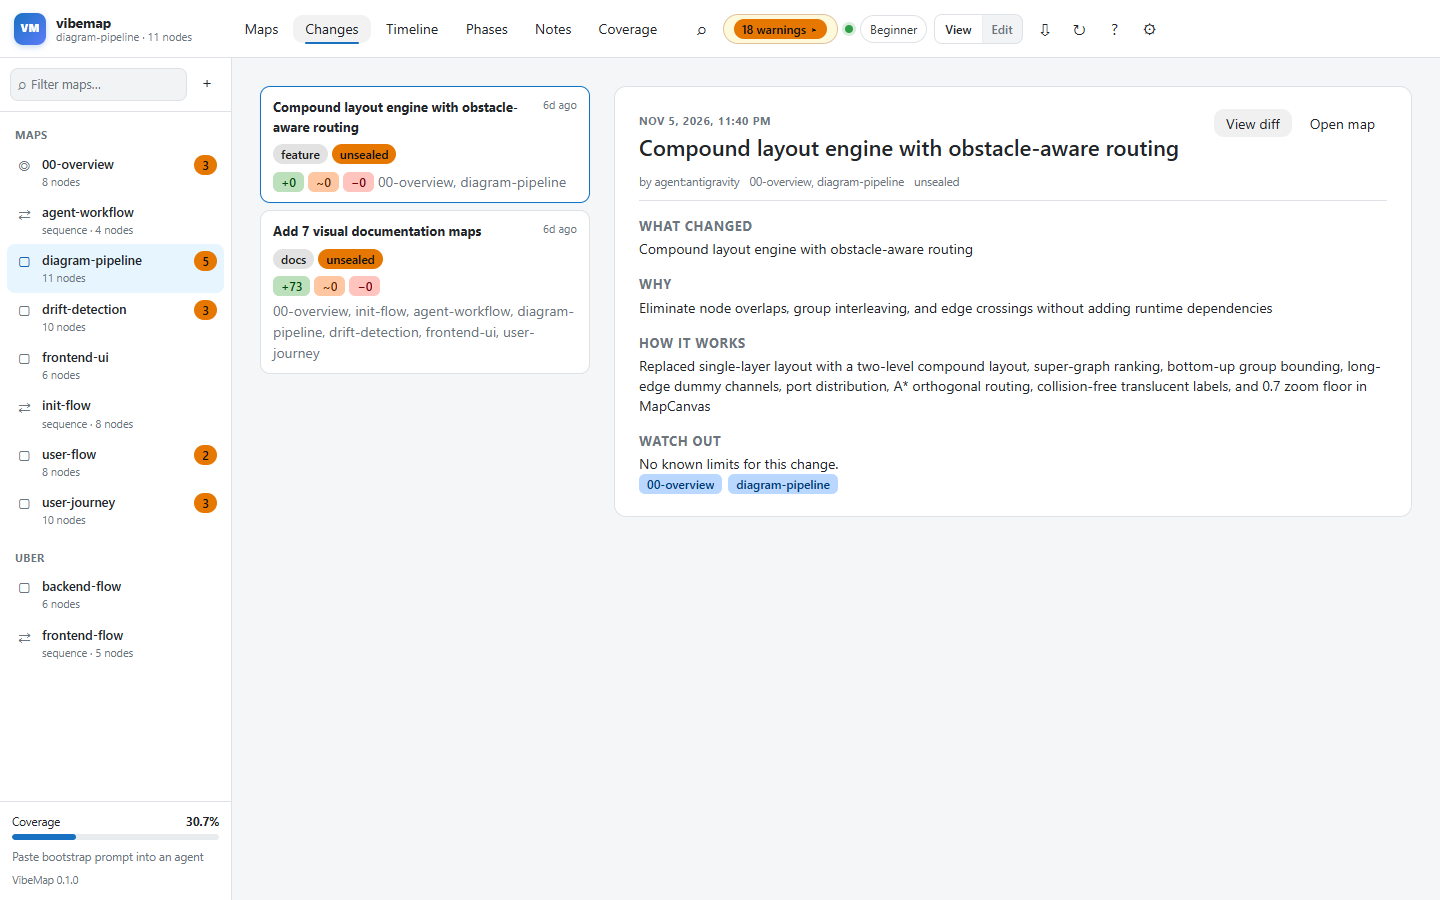
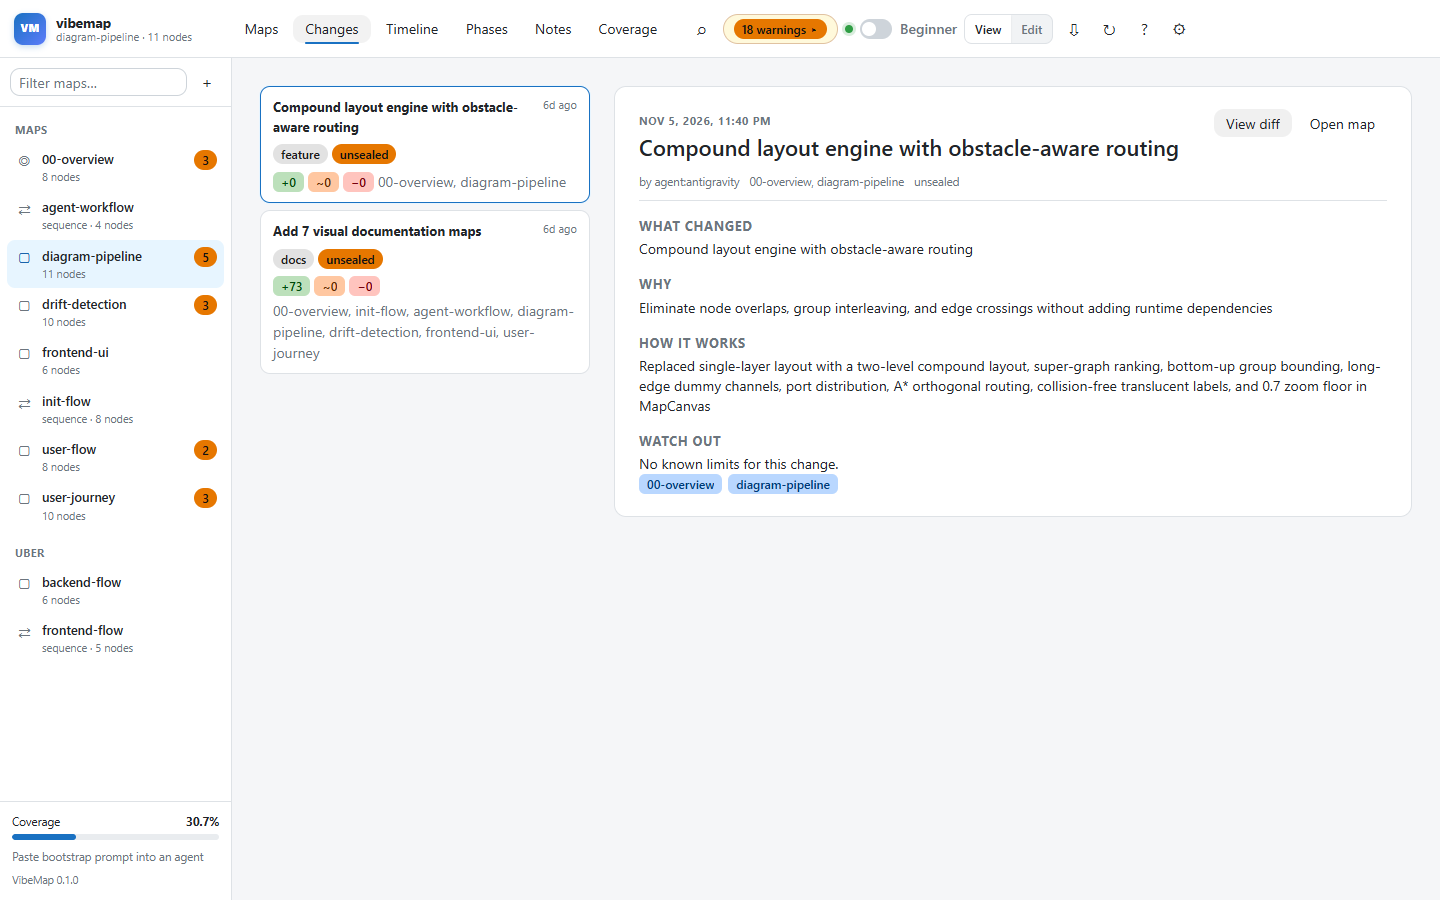
feat(ui): step 5.4 migrate form controls to astryx switch textinput and selector

diff --git a/viewer/src/components/Modals.tsx b/viewer/src/components/Modals.tsx
@@ -1,6 +1,7 @@
 import React, { useEffect, useMemo, useRef, useState } from 'react';
 import { Button } from '@astryxdesign/core/Button';
 import { IconButton } from '@astryxdesign/core/IconButton';
+import { Selector } from '@astryxdesign/core/Selector';
 import type { NodeKind, NodeStatus, ProjectConfig } from '@core/types';
 import { EDGE_KINDS, NODE_KINDS, NODE_STATUSES } from '@core/types';
 import { api, type ProjectInfo, type SearchResult } from '../api';
@@ -287,23 +288,27 @@ export function SettingsModal({
       <div className="settings-section">
         <h3>Tracking</h3>
         <div className="field-row">
-          <label className="field">
-            <span>Mode</span>
-            <select value={mode} onChange={(event) => setMode(event.target.value as ProjectConfig['tracking']['mode'])}>
-              <option value="every-change">every-change</option>
-              <option value="per-phase">per-phase</option>
-              <option value="manual">manual</option>
-              <option value="off">off</option>
-            </select>
-          </label>
-          <label className="field">
-            <span>Granularity</span>
-            <select value={granularity} onChange={(event) => setGranularity(event.target.value as ProjectConfig['tracking']['granularity'])}>
-              <option value="overview">overview</option>
-              <option value="feature">feature</option>
-              <option value="detail">detail</option>
-            </select>
-          </label>
+          <Selector
+            label="Mode"
+            value={mode}
+            onChange={(val) => setMode(val as ProjectConfig['tracking']['mode'])}
+            options={[
+              { value: 'every-change', label: 'every-change' },
+              { value: 'per-phase', label: 'per-phase' },
+              { value: 'manual', label: 'manual' },
+              { value: 'off', label: 'off' },
+            ]}
+          />
+          <Selector
+            label="Granularity"
+            value={granularity}
+            onChange={(val) => setGranularity(val as ProjectConfig['tracking']['granularity'])}
+            options={[
+              { value: 'overview', label: 'overview' },
+              { value: 'feature', label: 'feature' },
+              { value: 'detail', label: 'detail' },
+            ]}
+          />
         </div>
         <p className="muted small">The agent guide is rewritten when you save. Hooks remind agents to update maps.</p>
       </div>

diff --git a/viewer/src/components/Sidebar.tsx b/viewer/src/components/Sidebar.tsx
@@ -1,5 +1,6 @@
 import React, { useMemo } from 'react';
 import { IconButton } from '@astryxdesign/core/IconButton';
+import { TextInput } from '@astryxdesign/core/TextInput';
 import type { MapSummary } from '@core/types';
 import { Badge } from './ui';
 import { classNames, mapFolder, mapIcon, mapLeaf } from '../util';
@@ -44,13 +45,7 @@ export function Sidebar({
   return (
     <aside className="sidebar" aria-label="Map navigator">
       <div className="sidebar-head">
-        <label className="search-field">
-          <span aria-hidden="true">⌕</span>
-          <input value={filter} onChange={(event) => onFilter(event.target.value)} placeholder="Filter maps…" aria-label="Filter maps" />
-          {filter ? (
-            <IconButton label="Clear filter" icon={<span aria-hidden="true">×</span>} variant="ghost" size="sm" onClick={() => onFilter('')} />
-          ) : null}
-        </label>
+        <TextInput label="Filter maps" isLabelHidden value={filter} onChange={(val) => onFilter(val)} placeholder="Filter maps…" hasClear size="sm" />
         <IconButton label="New map" tooltip="New map" icon={<span aria-hidden="true">+</span>} variant="ghost" size="sm" onClick={onNewMap} />
       </div>
       <div className="map-tree" role="tree">

diff --git a/viewer/src/components/TopBar.tsx b/viewer/src/components/TopBar.tsx
@@ -2,6 +2,7 @@ import React from 'react';
 import { Badge } from '@astryxdesign/core/Badge';
 import { Button } from '@astryxdesign/core/Button';
 import { IconButton } from '@astryxdesign/core/IconButton';
+import { Switch } from '@astryxdesign/core/Switch';
 import { Tab, TabList } from '@astryxdesign/core/TabList';
 import type { CheckReport, MapSummary, ViewerTab } from '@core/types';
 import type { MapDetail, ProjectInfo } from '../api';
@@ -91,9 +92,7 @@ export function TopBar({
           />
         </button>
         <span className={`live-dot live-${live}`} title={live === 'live' ? 'Live updates connected' : live === 'connecting' ? 'Connecting…' : 'Disconnected'} />
-        <button type="button" className={classNames('chip', beginner && 'active')} onClick={() => onBeginner(!beginner)} title="Beginner mode (B)">
-          Beginner
-        </button>
+        <Switch label="Beginner" value={beginner} onChange={(val) => onBeginner(val)} size="sm" />
         <div className="segmented" role="group" aria-label="Mode">
           <button type="button" className={mode === 'view' ? 'active' : ''} onClick={() => onMode('view')}>
             View
